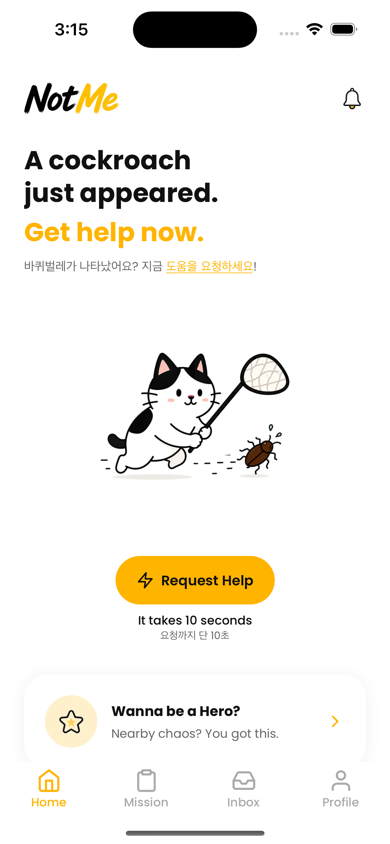
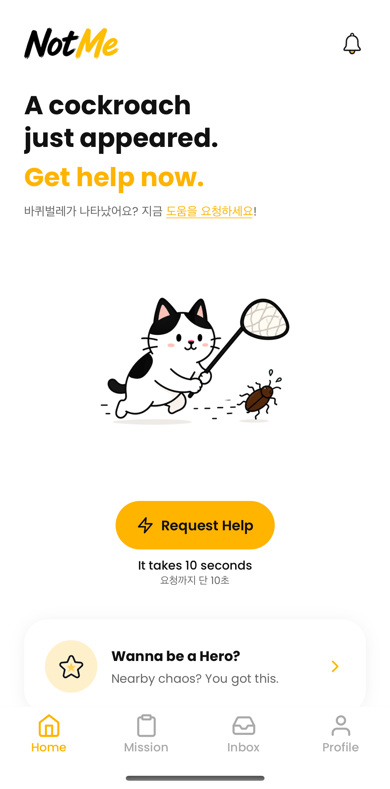
Crop status bar out of Hero screenshot

diff --git a/src/sections/Hero.tsx b/src/sections/Hero.tsx
@@ -65,7 +65,7 @@ export default function Hero() {
             src="/screens/home-hero.png"
             alt="NotMe home screen — request help for a cockroach in seconds"
             width={390}
-            height={844}
+            height={789}
             className="w-full max-w-[280px] rounded-[2rem] border border-neutral-200 shadow-xl dark:border-neutral-800"
           />
         </div>
